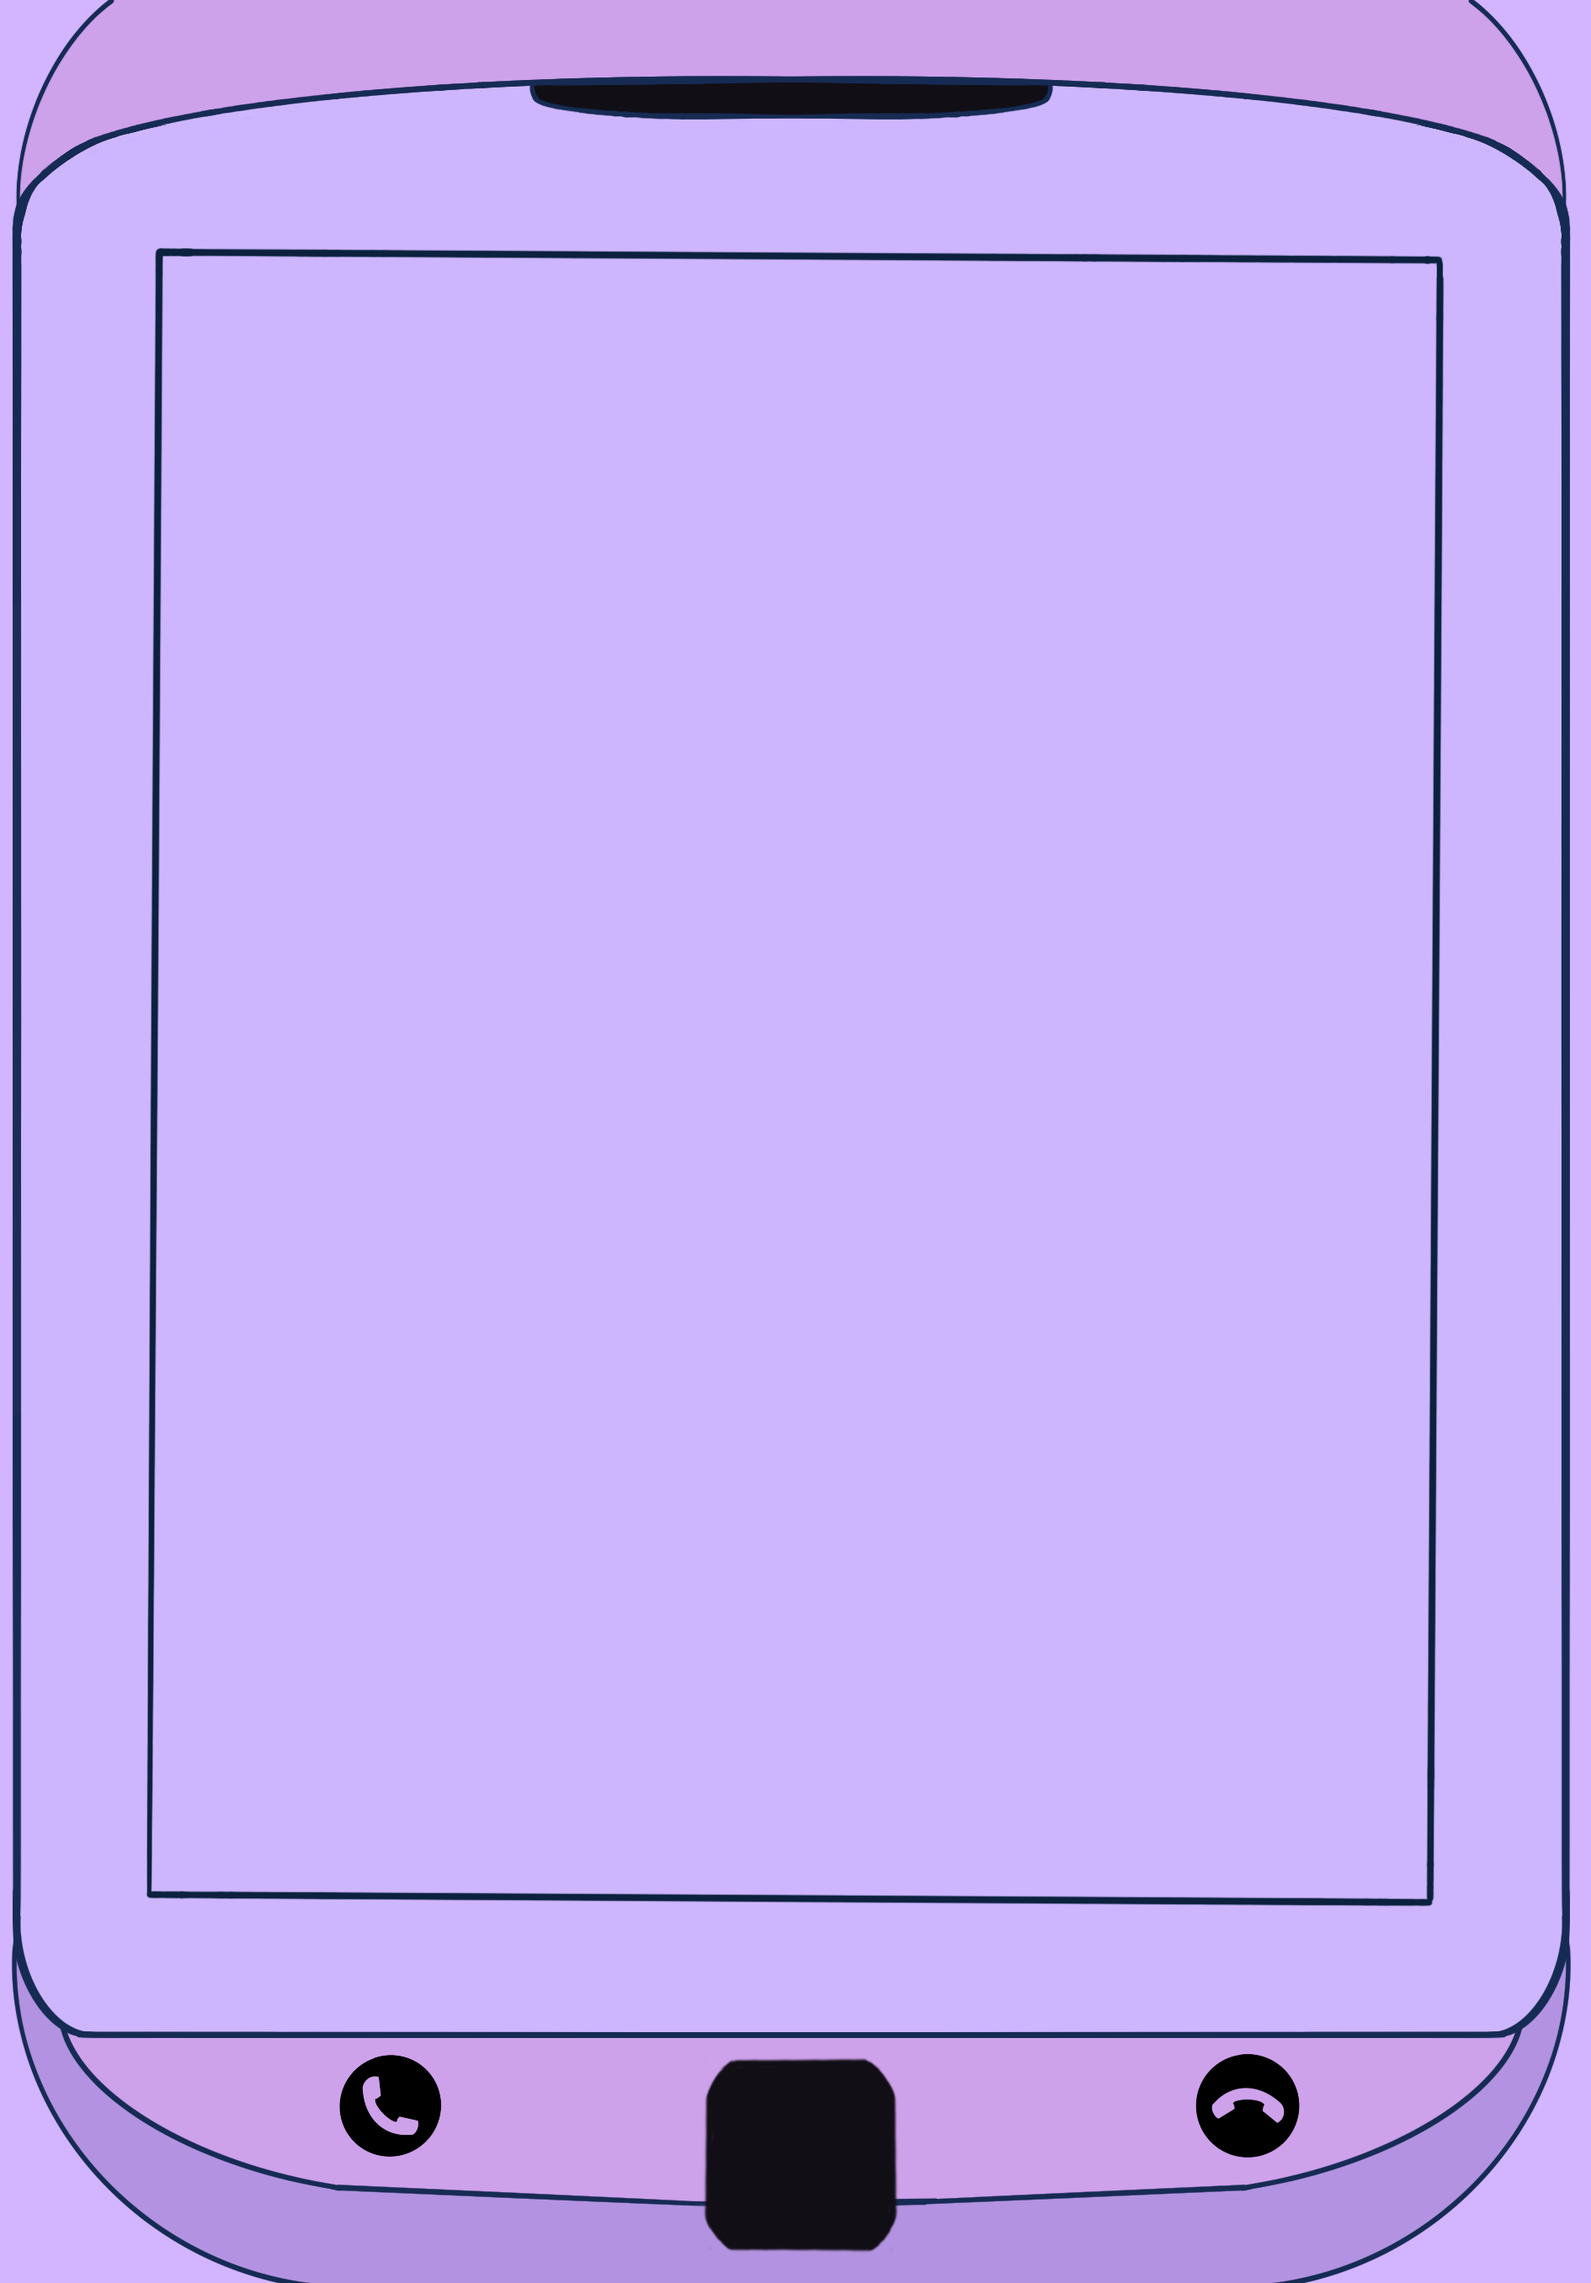
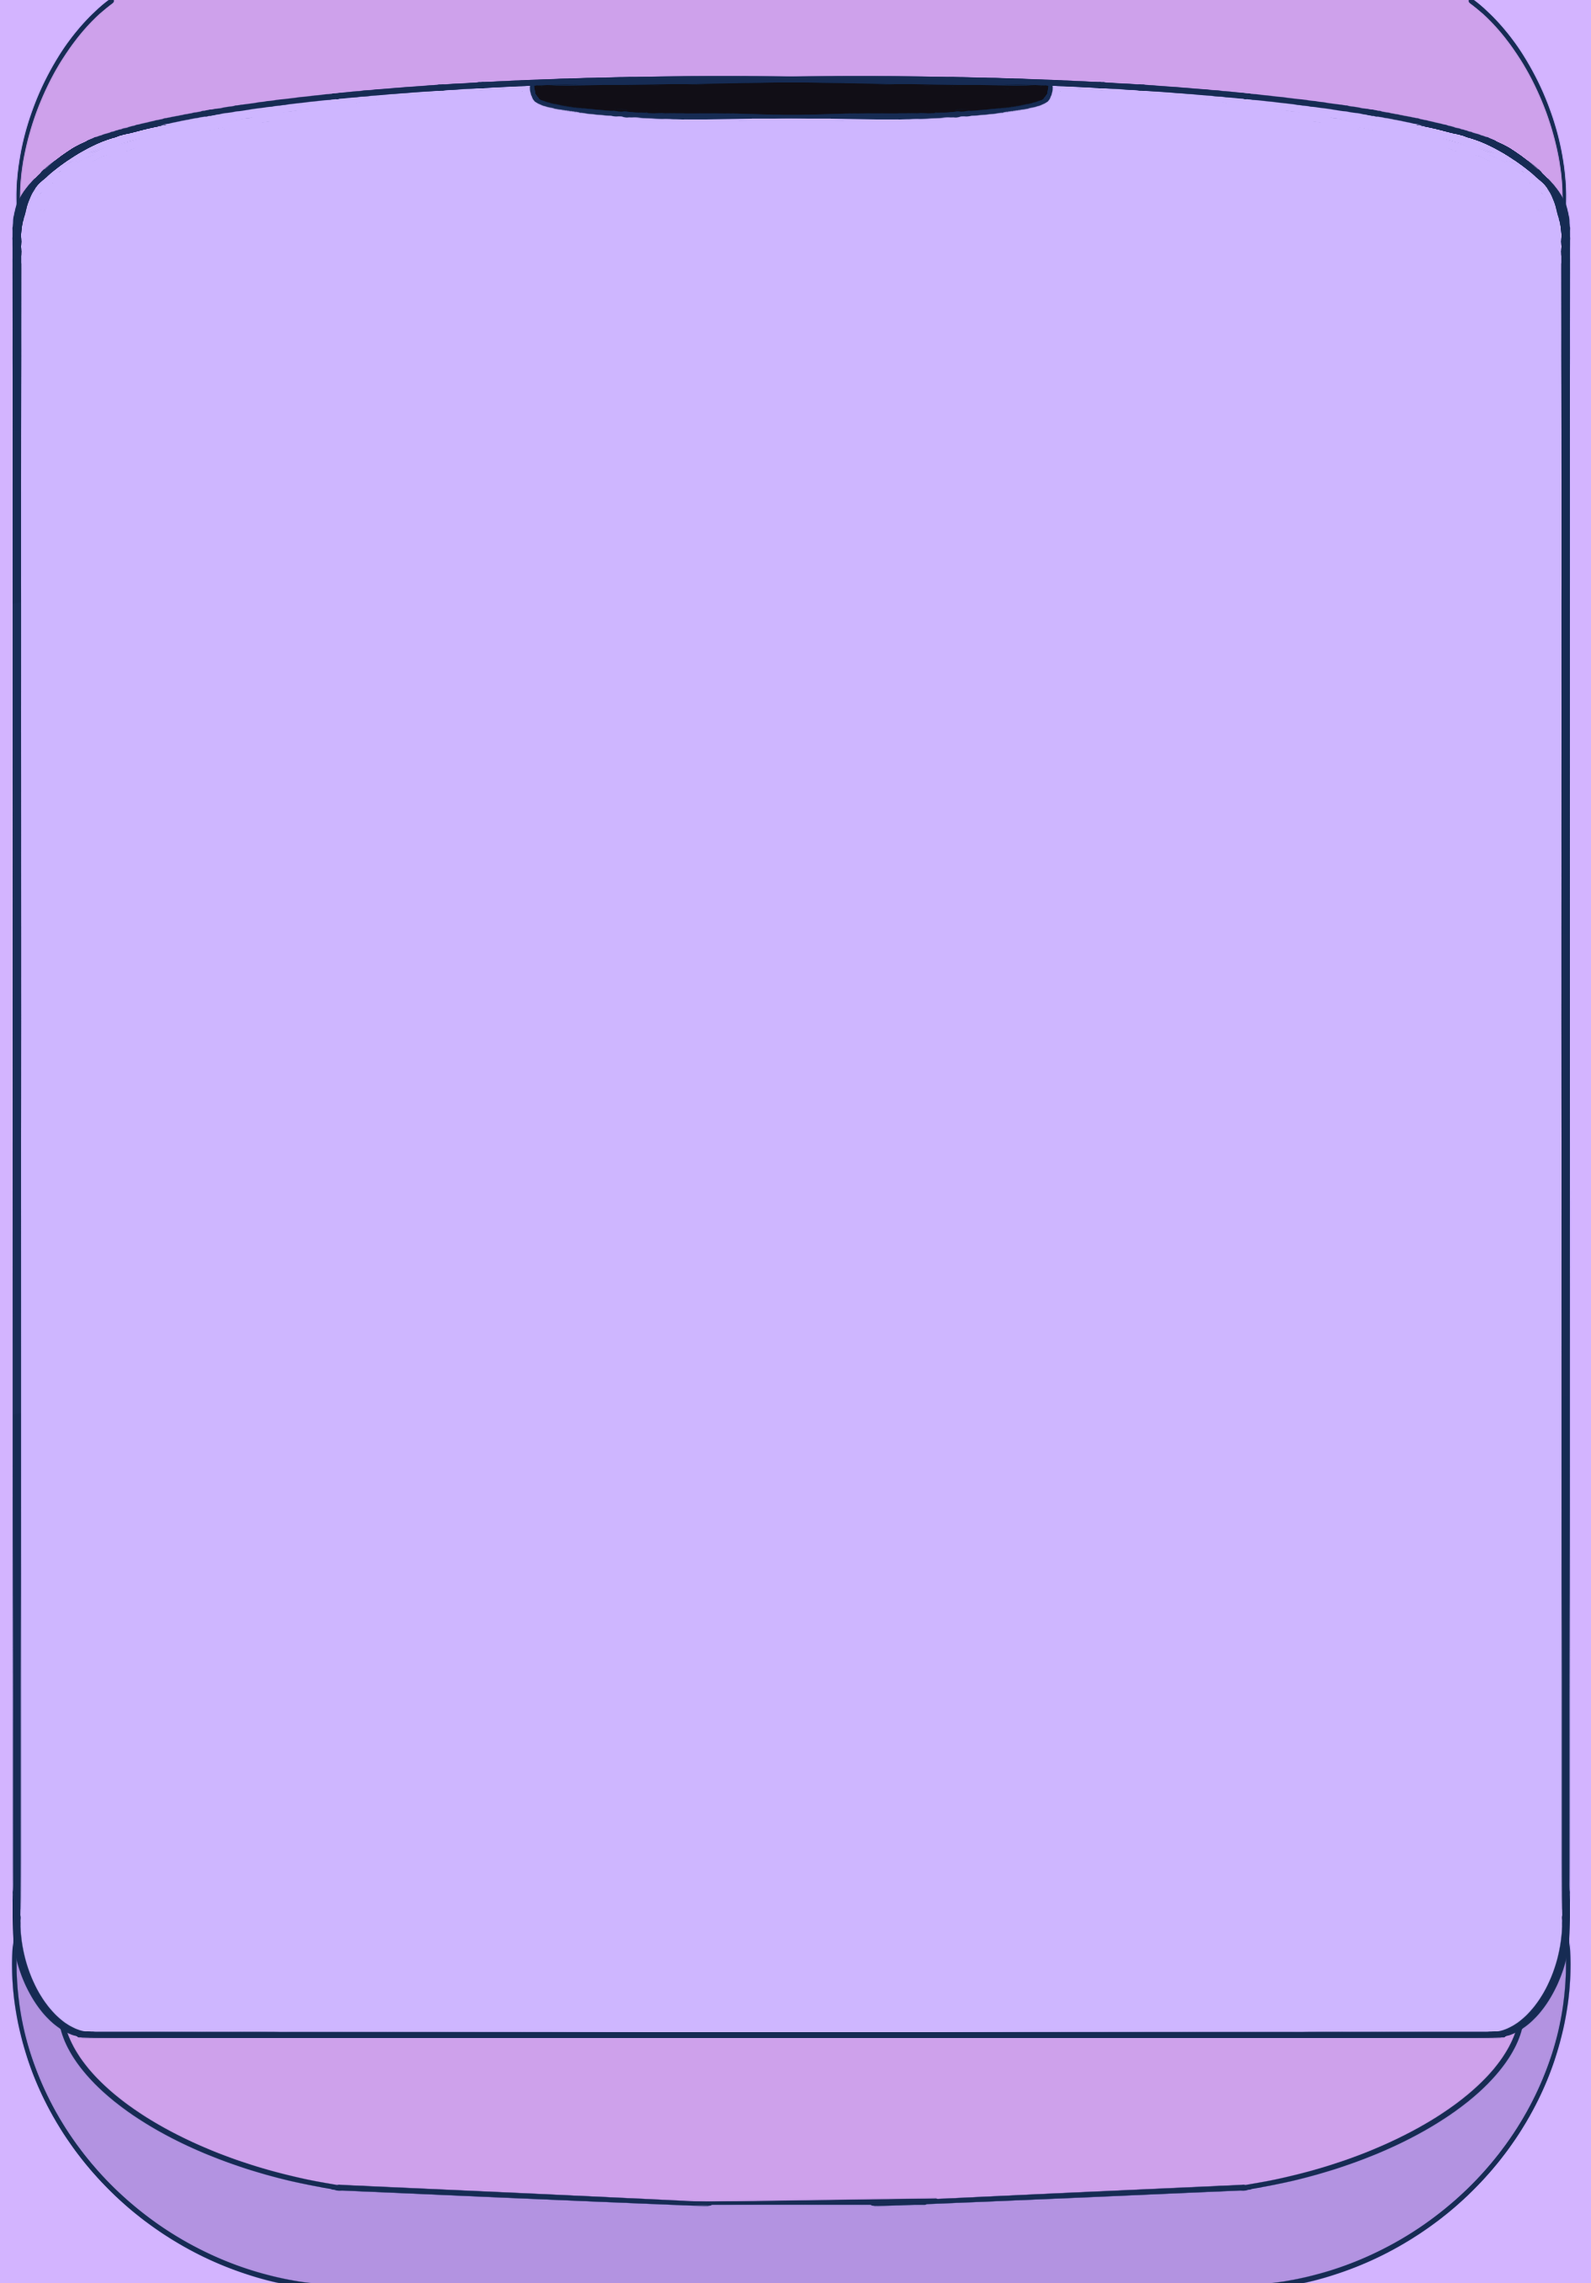
mobile button styling

diff --git a/src/styles/components/_phone.scss b/src/styles/components/_phone.scss
@@ -4,20 +4,49 @@
         position: relative; 
         background-size: 100% 100%;
         max-height: 100vh;
+        height: 100vh;
         background-repeat: no-repeat;
-        padding: 50px 0 30px;
+
         .phoneScreen {
                 border-radius: 20px;
                 border: 1px solid black;
                 box-shadow: -2px -2px 2px 2px #000000, 2px 2px 2px 2px #000000,;
                 position: relative;
                 transform: scale(0.8);
-                top: -40px;
+                top: 10px;
                 margin: auto;
-                height: 92vh;
+                height: 85vh;
                 overflow: hidden;
                 margin: 0;
 
         }
+
     }
+        .btn-bar {
+            display: flex;
+            width: 100%;
+            top: -140px;
+            position: relative;
+            justify-content: space-around;
+        }
+            .answer-call {
+            height: 50px;
+            width: 50px;
+            padding-left:10px;
+        }
+        .end-call {
+            height: 50px;
+            width: 50px;
+            padding-right:10px;
+        }
+        .home-btn {
+            height: 60px;
+            width: 60px;
+            background: #B991E6;
+            position: relative;
+            border-radius: 10px;
+            top: 25px;
+            box-shadow: -2px -2px 0px 0px #000000, 2px 2px 0px 0px #000000,;
+
+        }
 }

diff --git a/src/pages/MyPhone.jsx b/src/pages/MyPhone.jsx
@@ -1,10 +1,17 @@
 import Phone from '../components/Phone';
+import answer from './../assets/hangup.PNG';
+import hangup from '../assets/answer.PNG';
 
 const MyPhone = () => {
 return (
 
     <div className = "myPhone">
         <Phone />
+        <div className="btn-bar">
+            <img src={answer} className="answer-call" alt="Answer Call Button"></img>
+            <div className="home-btn"></div>
+            <img src={hangup} className="end-call" alt="End Call Button"></img>
+      </div>
     </div>
 )
 }

diff --git a/src/components/Phone.jsx b/src/components/Phone.jsx
@@ -7,6 +7,7 @@ import TempPage from '../pages/arcade/TempPage.tsx';
 import Projects from '../pages/arcade/Projects.tsx';
 import phone from './../assets/phone.png';
 
+
 const Phone = ({currentPage, onNavigate }) => {
       const renderScreen = () => {
         switch (currentPage) {
@@ -37,6 +38,7 @@ const Phone = ({currentPage, onNavigate }) => {
       >
         {renderScreen()}
       </div>
+
     </div>
   );
 };

diff --git a/src/index.css b/src/index.css
@@ -5,7 +5,7 @@ body {
     sans-serif;
   -webkit-font-smoothing: antialiased;
   -moz-osx-font-smoothing: grayscale;
-  background: #D9B2FF;
+  background: #3a076d;
 }
 
 code {
